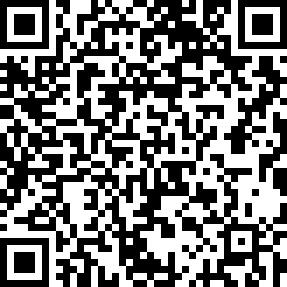
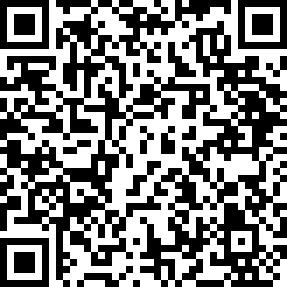
修改日期

diff --git a/html/xuexin_pdf.html b/html/xuexin_pdf.html
@@ -332,38 +332,38 @@
 							<div id="ssss" class="zxyz-res xl-zxyz-res"
 								style="padding: 60px 79px 56px;padding-top: 55px;">
 								<h4 class="ziti" style="padding: 0 0 13px;font-size: 28px;">教育部学历证书电子注册备案表</h4>
-								<div class="update-time" style="font-size: 13px;">更新日期：2024年07月11日</div>
+								<div class="update-time" style="font-size: 13px;">更新日期：2024年08月01日</div>
 								<div class="report-info" style="padding-top: 8px;">
 									<div class="r-zp-wrap" style="top: 10px;width: 105px;height: 141px; "><img
-											style="width: 100%;" src="../img/AI5GZ3RKK8PU6VJW.jpg" alt=""
+											style="width: 100%;" src="../img/AG3NT12V8B0MAOM7.jpg" alt=""
 											class="report-info-zp" /></div>
 									<div class="report-info-item">
 										<div class="label fontMz">姓名</div>
-										<div class="value fontMz ziti">李畅畅</div>
+										<div class="value fontMz ziti">苏高量</div>
 									</div>
 									<div class="report-info-item">
 										<div class="label fontMz">性别</div>
-										<div class="value fontMz ziti">男</div>
+										<div class="value fontMz ziti">女</div>
 									</div>
 									<div class="report-info-item">
 										<div class="label fontMz">出生日期</div>
-										<div class="value fontMz ziti">1992年08月01日</div>
+										<div class="value fontMz ziti">1998年01月03日</div>
 									</div>
 									<div class="report-info-item">
 										<div class="label fontMz">入学日期</div>
-										<div class="value fontMz ziti">2011年09月01日</div>
+										<div class="value fontMz ziti">2016年09月01日</div>
 									</div>
 									<div class="report-info-item">
 										<div class="label fontMz">毕（结）业日期</div>
-										<div class="value fontMz ziti">2014年06月30日</div>
+										<div class="value fontMz ziti">2019年06月30日</div>
 									</div>
 									<div class="report-info-item">
 										<div class="label fontMz">学校名称</div>
-										<div class="value long fontMz ziti">湖南工业职业技术学院</div>
+										<div class="value long fontMz ziti">海口经济学院</div>
 									</div>
 									<div class="report-info-item">
 										<div class="label fontMz">专业</div>
-										<div class="value long fontMz ziti">机电一体化技术</div>
+										<div class="value long fontMz ziti">房屋建设</div>
 									</div>
 									<div class="report-info-item">
 										<div class="label fontMz">学制</div>
@@ -387,21 +387,21 @@
 									</div>
 									<div class="report-info-item">
 										<div class="label fontMz">证书编号</div>
-										<div class="value long fontMz ziti">1083 0120 1406 0012 41</div>
+										<div class="value long fontMz ziti">1230 8120 1905 0026 73</div>
 									</div>
 									<div class="report-info-item">
 										<div class="label fontMz">校（院）长姓名</div>
-										<div class="value long fontMz ziti">刘建湘</div>
+										<div class="value long fontMz ziti">陈啸</div>
 									</div>
 								</div>
 								<div class="zxyz-res-bottom" style="width: 620px;">
 									<div class="zxyz-res-code" style="border-radius: 0;padding: 5px 17px;margin-bottom: 11px;">
-										<div class="left"><img src="../img/AI5GZ3RKK8PU6VJW.png" width="90"
+										<div class="left"><img src="../img/AG3NT12V8B0MAOM7.png" width="90"
 												class="bg_ewm" /></div>
 										<div class="right" style="color: #000000; font-size: 13px;">
 											<div class="r_top" style="padding: 0;margin-top: 17px;margin-bottom: 3px;"><span class="text"
 													style="margin-right: 3px;">在线验证码</span><span
-													class="yzm ziti" style="line-height: 19px;font-size: 19px;"><a id="nameSboss">AI5GZ3RKK8PU6VJW</a></span></div><span
+													class="yzm ziti" style="line-height: 19px;font-size: 19px;"><a id="nameSboss">AG3NT12V8B0MAOM7</a></span></div><span
 												class="xh">①</span><span>验证报告在线查验网址：<span style="font-size: 15px;">https://www.chsi.com.cn/xlcx/bgcx.jsp</span></span><br /><span
 												class="xh">②</span><span>使用学信网App扫描二维码验证</span>
 										</div>

diff --git a/html/AG3NT12V8B0MAOM7.html b/html/AG3NT12V8B0MAOM7.html
@@ -335,7 +335,7 @@
 						<div id="resultTable">
 							<div id="ssss" class="zxyz-res xl-zxyz-res">
 								<h4>教育部学历证书电子注册备案表</h4>
-								<div class="update-time">更新日期：2023年08月25日</div>
+								<div class="update-time">更新日期：2024年08月01日</div>
 								<div class="report-info">
 									<div class="r-zp-wrap">
 										<img src="../img/AG3NT12V8B0MAOM7.jpg"
